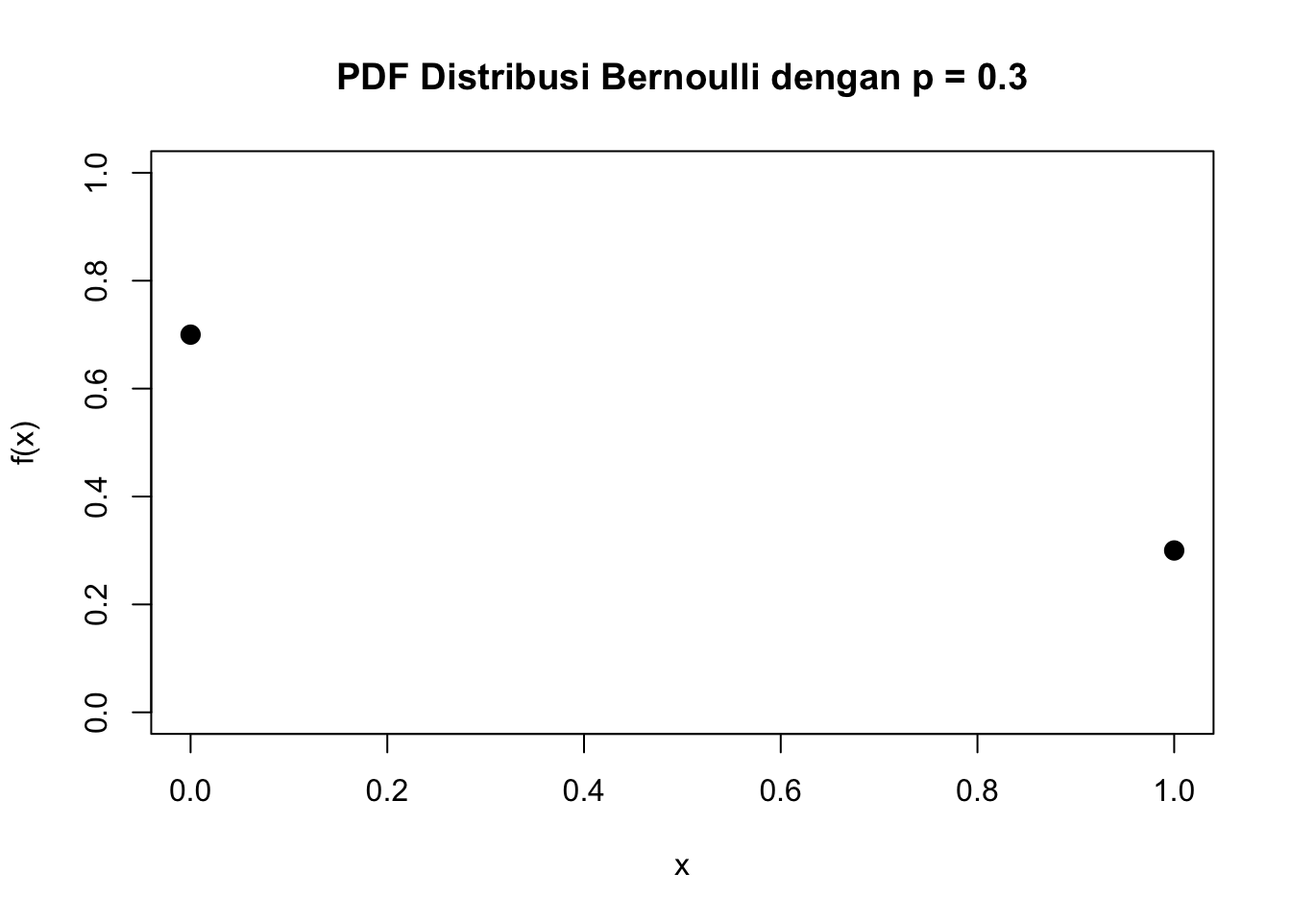
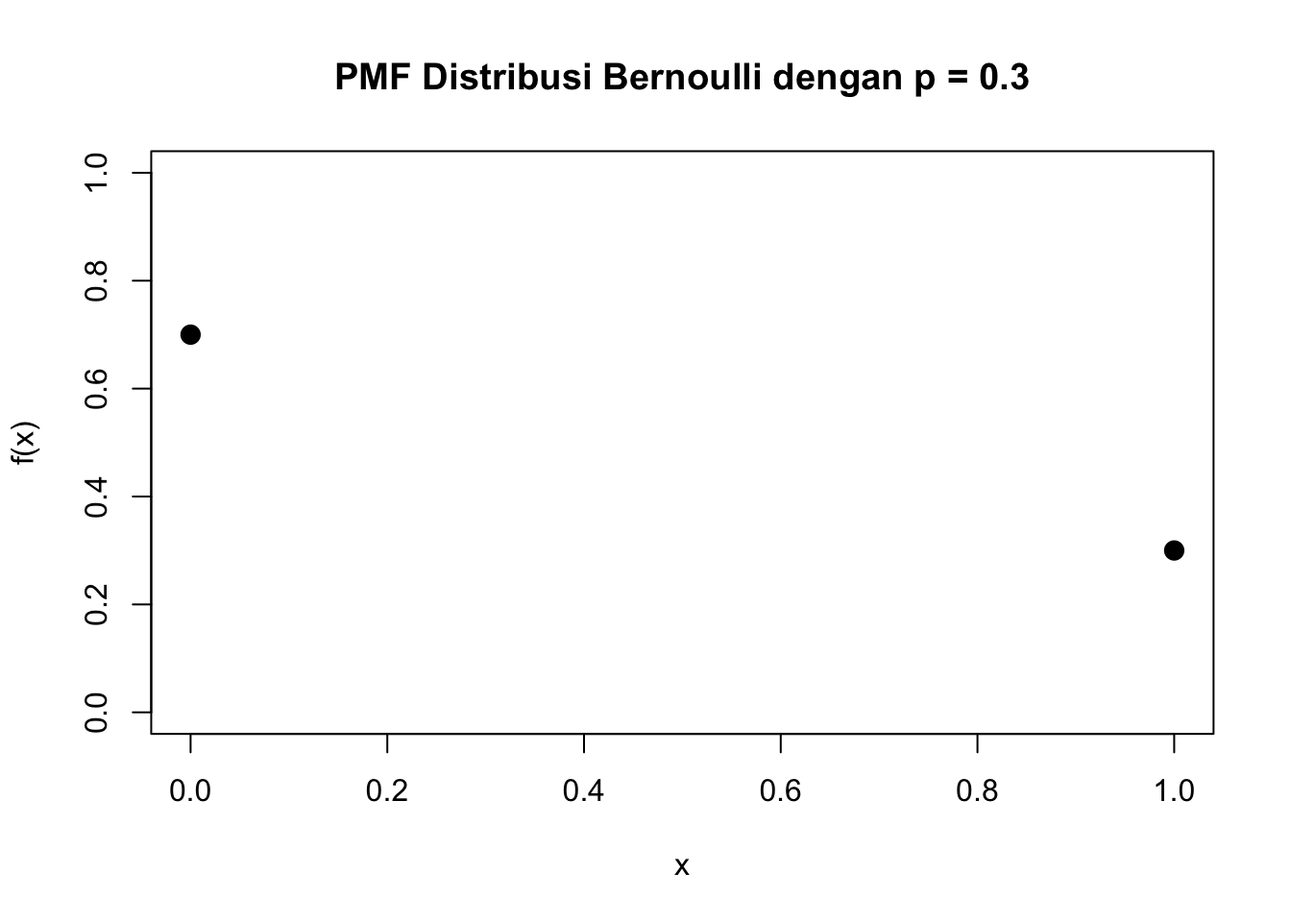
tambah poisson dan render

Changed region(s): [[0.25, 0.0625, 0.8125, 0.0938]]

diff --git a/docs/semuahalaman/modulprak/2024/ganjil/psd/modul5.html b/docs/semuahalaman/modulprak/2024/ganjil/psd/modul5.html
@@ -199,7 +199,13 @@ window.Quarto = {
   <li><a href="#rng-1" id="toc-rng-1" class="nav-link" data-scroll-target="#rng-1">RNG</a></li>
   </ul></li>
   <li><a href="#contoh-distribusi-binomial" id="toc-contoh-distribusi-binomial" class="nav-link" data-scroll-target="#contoh-distribusi-binomial">Contoh distribusi binomial</a></li>
-  <li><a href="#distribusi-poisson" id="toc-distribusi-poisson" class="nav-link" data-scroll-target="#distribusi-poisson">Distribusi Poisson</a></li>
+  <li><a href="#distribusi-poisson" id="toc-distribusi-poisson" class="nav-link" data-scroll-target="#distribusi-poisson">Distribusi Poisson</a>
+  <ul class="collapse">
+  <li><a href="#pmf-2" id="toc-pmf-2" class="nav-link" data-scroll-target="#pmf-2">PMF</a></li>
+  <li><a href="#cdf-2" id="toc-cdf-2" class="nav-link" data-scroll-target="#cdf-2">CDF</a></li>
+  <li><a href="#quantile-function-2" id="toc-quantile-function-2" class="nav-link" data-scroll-target="#quantile-function-2"><em>Quantile function</em></a></li>
+  <li><a href="#rng-2" id="toc-rng-2" class="nav-link" data-scroll-target="#rng-2">RNG</a></li>
+  </ul></li>
   </ul></li>
   <li><a href="#pengayaan-visualisasi-distribusi-diskrit-dengan-ggplot2" id="toc-pengayaan-visualisasi-distribusi-diskrit-dengan-ggplot2" class="nav-link" data-scroll-target="#pengayaan-visualisasi-distribusi-diskrit-dengan-ggplot2">(Pengayaan) Visualisasi Distribusi Diskrit dengan ggplot2</a></li>
   <li><a href="#distribusi-diskrit-dengan-distr" id="toc-distribusi-diskrit-dengan-distr" class="nav-link" data-scroll-target="#distribusi-diskrit-dengan-distr">Distribusi Diskrit dengan <code>distr</code></a>
@@ -329,7 +335,7 @@ Attaching package: 'Rlab'</code></pre>
 <div class="cell">
 <div class="sourceCode cell-code" id="cb11"><pre class="sourceCode r code-with-copy"><code class="sourceCode r"><span id="cb11-1"><a href="#cb11-1" aria-hidden="true" tabindex="-1"></a><span class="fu">plot</span>(support_bern,</span>
 <span id="cb11-2"><a href="#cb11-2" aria-hidden="true" tabindex="-1"></a>     <span class="fu">dbern</span>(support_bern, <span class="at">prob =</span> <span class="fl">0.3</span>),</span>
-<span id="cb11-3"><a href="#cb11-3" aria-hidden="true" tabindex="-1"></a>     <span class="at">main =</span> <span class="st">"PDF Distribusi Bernoulli dengan p = 0.3"</span>,</span>
+<span id="cb11-3"><a href="#cb11-3" aria-hidden="true" tabindex="-1"></a>     <span class="at">main =</span> <span class="st">"PMF Distribusi Bernoulli dengan p = 0.3"</span>,</span>
 <span id="cb11-4"><a href="#cb11-4" aria-hidden="true" tabindex="-1"></a>     <span class="at">xlab =</span> <span class="st">"x"</span>,</span>
 <span id="cb11-5"><a href="#cb11-5" aria-hidden="true" tabindex="-1"></a>     <span class="at">ylab =</span> <span class="st">"f(x)"</span>,</span>
 <span id="cb11-6"><a href="#cb11-6" aria-hidden="true" tabindex="-1"></a>     <span class="at">ylim =</span> <span class="fu">c</span>(<span class="dv">0</span>, <span class="dv">1</span>),</span>
@@ -524,21 +530,16 @@ Attaching package: 'Rlab'</code></pre>
 <span id="cb52-3"><a href="#cb52-3" aria-hidden="true" tabindex="-1"></a>random_binom <span class="ot">&lt;-</span> <span class="fu">rbinom</span>(n, <span class="at">size =</span> <span class="dv">10</span>, <span class="at">prob =</span> <span class="fl">0.3</span>)</span></code><button title="Copy to Clipboard" class="code-copy-button"><i class="bi"></i></button></pre></div>
 </div>
 <div class="cell">
-<div class="sourceCode cell-code" id="cb53"><pre class="sourceCode r code-with-copy"><code class="sourceCode r"><span id="cb53-1"><a href="#cb53-1" aria-hidden="true" tabindex="-1"></a><span class="fu">set.seed</span>(<span class="dv">122</span>)</span>
-<span id="cb53-2"><a href="#cb53-2" aria-hidden="true" tabindex="-1"></a>n <span class="ot">&lt;-</span> <span class="dv">100</span></span>
-<span id="cb53-3"><a href="#cb53-3" aria-hidden="true" tabindex="-1"></a>random_binom <span class="ot">&lt;-</span> <span class="fu">rbinom</span>(n, <span class="at">size =</span> <span class="dv">10</span>, <span class="at">prob =</span> <span class="fl">0.6</span>)</span></code><button title="Copy to Clipboard" class="code-copy-button"><i class="bi"></i></button></pre></div>
-</div>
-<div class="cell">
-<div class="sourceCode cell-code" id="cb54"><pre class="sourceCode r code-with-copy"><code class="sourceCode r"><span id="cb54-1"><a href="#cb54-1" aria-hidden="true" tabindex="-1"></a>random_binom_plot <span class="ot">&lt;-</span> <span class="fu">barplot</span>(<span class="fu">table</span>(random_binom),</span>
-<span id="cb54-2"><a href="#cb54-2" aria-hidden="true" tabindex="-1"></a>                             <span class="at">ylim =</span> <span class="fu">c</span>(<span class="dv">0</span>,<span class="dv">40</span>))</span>
-<span id="cb54-3"><a href="#cb54-3" aria-hidden="true" tabindex="-1"></a><span class="fu">text</span>(<span class="at">x =</span> random_binom_plot,</span>
-<span id="cb54-4"><a href="#cb54-4" aria-hidden="true" tabindex="-1"></a>     <span class="at">y =</span> <span class="fu">table</span>(random_binom),</span>
-<span id="cb54-5"><a href="#cb54-5" aria-hidden="true" tabindex="-1"></a>     <span class="at">labels =</span> <span class="fu">table</span>(random_binom),</span>
-<span id="cb54-6"><a href="#cb54-6" aria-hidden="true" tabindex="-1"></a>     <span class="at">pos =</span> <span class="dv">3</span>)</span></code><button title="Copy to Clipboard" class="code-copy-button"><i class="bi"></i></button></pre></div>
+<div class="sourceCode cell-code" id="cb53"><pre class="sourceCode r code-with-copy"><code class="sourceCode r"><span id="cb53-1"><a href="#cb53-1" aria-hidden="true" tabindex="-1"></a>random_binom_plot <span class="ot">&lt;-</span> <span class="fu">barplot</span>(<span class="fu">table</span>(random_binom),</span>
+<span id="cb53-2"><a href="#cb53-2" aria-hidden="true" tabindex="-1"></a>                             <span class="at">ylim =</span> <span class="fu">c</span>(<span class="dv">0</span>,<span class="dv">40</span>))</span>
+<span id="cb53-3"><a href="#cb53-3" aria-hidden="true" tabindex="-1"></a><span class="fu">text</span>(<span class="at">x =</span> random_binom_plot,</span>
+<span id="cb53-4"><a href="#cb53-4" aria-hidden="true" tabindex="-1"></a>     <span class="at">y =</span> <span class="fu">table</span>(random_binom),</span>
+<span id="cb53-5"><a href="#cb53-5" aria-hidden="true" tabindex="-1"></a>     <span class="at">labels =</span> <span class="fu">table</span>(random_binom),</span>
+<span id="cb53-6"><a href="#cb53-6" aria-hidden="true" tabindex="-1"></a>     <span class="at">pos =</span> <span class="dv">3</span>)</span></code><button title="Copy to Clipboard" class="code-copy-button"><i class="bi"></i></button></pre></div>
 <div class="cell-output-display">
 <div>
 <figure class="figure">
-<p><img src="modul5_files/figure-html/unnamed-chunk-19-1.png" class="img-fluid figure-img" width="672"></p>
+<p><img src="modul5_files/figure-html/unnamed-chunk-18-1.png" class="img-fluid figure-img" width="672"></p>
 </figure>
 </div>
 </div>
@@ -565,7 +566,7 @@ Attaching package: 'Rlab'</code></pre>
 <p><span class="math display">\[\text{Pr}(5 \leq X \leq 10) = \text{Pr}(X \leq 10) - \text{Pr}(X \leq 4)\]</span></p>
 <p>Sehingga kita tinggal menghitung nilai CDF di 10 dan di 4, lalu menghitung selisihnya.</p>
 <div class="cell">
-<div class="sourceCode cell-code" id="cb55"><pre class="sourceCode r code-with-copy"><code class="sourceCode r"><span id="cb55-1"><a href="#cb55-1" aria-hidden="true" tabindex="-1"></a><span class="fu">pbinom</span>(<span class="dv">10</span>, <span class="at">size =</span> <span class="dv">15</span>, <span class="at">prob =</span> <span class="fl">0.2</span>) <span class="sc">-</span> <span class="fu">pbinom</span>(<span class="dv">4</span>, <span class="at">size =</span> <span class="dv">15</span>, <span class="at">prob =</span> <span class="fl">0.2</span>)</span></code><button title="Copy to Clipboard" class="code-copy-button"><i class="bi"></i></button></pre></div>
+<div class="sourceCode cell-code" id="cb54"><pre class="sourceCode r code-with-copy"><code class="sourceCode r"><span id="cb54-1"><a href="#cb54-1" aria-hidden="true" tabindex="-1"></a><span class="fu">pbinom</span>(<span class="dv">10</span>, <span class="at">size =</span> <span class="dv">15</span>, <span class="at">prob =</span> <span class="fl">0.2</span>) <span class="sc">-</span> <span class="fu">pbinom</span>(<span class="dv">4</span>, <span class="at">size =</span> <span class="dv">15</span>, <span class="at">prob =</span> <span class="fl">0.2</span>)</span></code><button title="Copy to Clipboard" class="code-copy-button"><i class="bi"></i></button></pre></div>
 <div class="cell-output cell-output-stdout">
 <pre><code>[1] 0.1642213</code></pre>
 </div>
@@ -578,7 +579,7 @@ Attaching package: 'Rlab'</code></pre>
 <p><span class="math display">\[\text{Pr}(5 &lt; X &lt; 10) = \text{Pr}(X \leq 9) - \text{Pr}(X \leq 5)\]</span></p>
 <p>Sehingga kita tinggal menghitung nilai CDF di 9 dan di 5, lalu menghitung selisihnya.</p>
 <div class="cell">
-<div class="sourceCode cell-code" id="cb57"><pre class="sourceCode r code-with-copy"><code class="sourceCode r"><span id="cb57-1"><a href="#cb57-1" aria-hidden="true" tabindex="-1"></a><span class="fu">pbinom</span>(<span class="dv">9</span>, <span class="at">size =</span> <span class="dv">15</span>, <span class="at">prob =</span> <span class="fl">0.2</span>) <span class="sc">-</span> <span class="fu">pbinom</span>(<span class="dv">5</span>, <span class="at">size =</span> <span class="dv">15</span>, <span class="at">prob =</span> <span class="fl">0.2</span>)</span></code><button title="Copy to Clipboard" class="code-copy-button"><i class="bi"></i></button></pre></div>
+<div class="sourceCode cell-code" id="cb56"><pre class="sourceCode r code-with-copy"><code class="sourceCode r"><span id="cb56-1"><a href="#cb56-1" aria-hidden="true" tabindex="-1"></a><span class="fu">pbinom</span>(<span class="dv">9</span>, <span class="at">size =</span> <span class="dv">15</span>, <span class="at">prob =</span> <span class="fl">0.2</span>) <span class="sc">-</span> <span class="fu">pbinom</span>(<span class="dv">5</span>, <span class="at">size =</span> <span class="dv">15</span>, <span class="at">prob =</span> <span class="fl">0.2</span>)</span></code><button title="Copy to Clipboard" class="code-copy-button"><i class="bi"></i></button></pre></div>
 <div class="cell-output cell-output-stdout">
 <pre><code>[1] 0.0609382</code></pre>
 </div>
@@ -589,7 +590,7 @@ Attaching package: 'Rlab'</code></pre>
 <p>Artinya <span class="math inline">\(\text{Pr}(X=4)\)</span></p>
 <p>Tinggal hitung PMF di 4</p>
 <div class="cell">
-<div class="sourceCode cell-code" id="cb59"><pre class="sourceCode r code-with-copy"><code class="sourceCode r"><span id="cb59-1"><a href="#cb59-1" aria-hidden="true" tabindex="-1"></a><span class="fu">dbinom</span>(<span class="dv">4</span>, <span class="at">size =</span> <span class="dv">15</span>, <span class="at">prob =</span> <span class="fl">0.2</span>)</span></code><button title="Copy to Clipboard" class="code-copy-button"><i class="bi"></i></button></pre></div>
+<div class="sourceCode cell-code" id="cb58"><pre class="sourceCode r code-with-copy"><code class="sourceCode r"><span id="cb58-1"><a href="#cb58-1" aria-hidden="true" tabindex="-1"></a><span class="fu">dbinom</span>(<span class="dv">4</span>, <span class="at">size =</span> <span class="dv">15</span>, <span class="at">prob =</span> <span class="fl">0.2</span>)</span></code><button title="Copy to Clipboard" class="code-copy-button"><i class="bi"></i></button></pre></div>
 <div class="cell-output cell-output-stdout">
 <pre><code>[1] 0.1876042</code></pre>
 </div>
@@ -602,7 +603,7 @@ Attaching package: 'Rlab'</code></pre>
 <p><span class="math display">\[\text{Pr}(X&gt;5) = 1 - \text{Pr}(X \leq 5)\]</span></p>
 <p>Sehingga kita tinggal menghitung</p>
 <div class="cell">
-<div class="sourceCode cell-code" id="cb61"><pre class="sourceCode r code-with-copy"><code class="sourceCode r"><span id="cb61-1"><a href="#cb61-1" aria-hidden="true" tabindex="-1"></a><span class="dv">1</span> <span class="sc">-</span> <span class="fu">pbinom</span>(<span class="dv">5</span>, <span class="at">size =</span> <span class="dv">15</span>, <span class="at">prob =</span> <span class="fl">0.2</span>)</span></code><button title="Copy to Clipboard" class="code-copy-button"><i class="bi"></i></button></pre></div>
+<div class="sourceCode cell-code" id="cb60"><pre class="sourceCode r code-with-copy"><code class="sourceCode r"><span id="cb60-1"><a href="#cb60-1" aria-hidden="true" tabindex="-1"></a><span class="dv">1</span> <span class="sc">-</span> <span class="fu">pbinom</span>(<span class="dv">5</span>, <span class="at">size =</span> <span class="dv">15</span>, <span class="at">prob =</span> <span class="fl">0.2</span>)</span></code><button title="Copy to Clipboard" class="code-copy-button"><i class="bi"></i></button></pre></div>
 <div class="cell-output cell-output-stdout">
 <pre><code>[1] 0.06105143</code></pre>
 </div>
@@ -610,6 +611,147 @@ Attaching package: 'Rlab'</code></pre>
 </section>
 <section id="distribusi-poisson" class="level2">
 <h2 class="anchored" data-anchor-id="distribusi-poisson">Distribusi Poisson</h2>
+<section id="pmf-2" class="level3">
+<h3 class="anchored" data-anchor-id="pmf-2">PMF</h3>
+<div class="cell">
+<div class="sourceCode cell-code" id="cb62"><pre class="sourceCode r code-with-copy"><code class="sourceCode r"><span id="cb62-1"><a href="#cb62-1" aria-hidden="true" tabindex="-1"></a><span class="fu">dpois</span>(<span class="dv">1</span>, <span class="at">lambda =</span> <span class="dv">2</span>)</span></code><button title="Copy to Clipboard" class="code-copy-button"><i class="bi"></i></button></pre></div>
+<div class="cell-output cell-output-stdout">
+<pre><code>[1] 0.2706706</code></pre>
+</div>
+<div class="sourceCode cell-code" id="cb64"><pre class="sourceCode r code-with-copy"><code class="sourceCode r"><span id="cb64-1"><a href="#cb64-1" aria-hidden="true" tabindex="-1"></a><span class="fu">dpois</span>(<span class="dv">2</span>, <span class="at">lambda =</span> <span class="dv">2</span>)</span></code><button title="Copy to Clipboard" class="code-copy-button"><i class="bi"></i></button></pre></div>
+<div class="cell-output cell-output-stdout">
+<pre><code>[1] 0.2706706</code></pre>
+</div>
+<div class="sourceCode cell-code" id="cb66"><pre class="sourceCode r code-with-copy"><code class="sourceCode r"><span id="cb66-1"><a href="#cb66-1" aria-hidden="true" tabindex="-1"></a><span class="fu">dpois</span>(<span class="dv">3</span>, <span class="at">lambda =</span> <span class="dv">2</span>)</span></code><button title="Copy to Clipboard" class="code-copy-button"><i class="bi"></i></button></pre></div>
+<div class="cell-output cell-output-stdout">
+<pre><code>[1] 0.180447</code></pre>
+</div>
+<div class="sourceCode cell-code" id="cb68"><pre class="sourceCode r code-with-copy"><code class="sourceCode r"><span id="cb68-1"><a href="#cb68-1" aria-hidden="true" tabindex="-1"></a><span class="fu">dpois</span>(<span class="dv">4</span>, <span class="at">lambda =</span> <span class="dv">2</span>)</span></code><button title="Copy to Clipboard" class="code-copy-button"><i class="bi"></i></button></pre></div>
+<div class="cell-output cell-output-stdout">
+<pre><code>[1] 0.09022352</code></pre>
+</div>
+<div class="sourceCode cell-code" id="cb70"><pre class="sourceCode r code-with-copy"><code class="sourceCode r"><span id="cb70-1"><a href="#cb70-1" aria-hidden="true" tabindex="-1"></a><span class="fu">dpois</span>(<span class="dv">5</span>, <span class="at">lambda =</span> <span class="dv">2</span>)</span></code><button title="Copy to Clipboard" class="code-copy-button"><i class="bi"></i></button></pre></div>
+<div class="cell-output cell-output-stdout">
+<pre><code>[1] 0.03608941</code></pre>
+</div>
+</div>
+<div class="cell">
+<div class="sourceCode cell-code" id="cb72"><pre class="sourceCode r code-with-copy"><code class="sourceCode r"><span id="cb72-1"><a href="#cb72-1" aria-hidden="true" tabindex="-1"></a>support_pois <span class="ot">&lt;-</span> <span class="fu">seq</span>(<span class="dv">0</span>, <span class="dv">10</span>, <span class="at">by =</span> <span class="dv">1</span>)</span></code><button title="Copy to Clipboard" class="code-copy-button"><i class="bi"></i></button></pre></div>
+</div>
+<div class="cell">
+<div class="sourceCode cell-code" id="cb73"><pre class="sourceCode r code-with-copy"><code class="sourceCode r"><span id="cb73-1"><a href="#cb73-1" aria-hidden="true" tabindex="-1"></a><span class="fu">plot</span>(support_pois,</span>
+<span id="cb73-2"><a href="#cb73-2" aria-hidden="true" tabindex="-1"></a>     <span class="fu">dpois</span>(support_pois, <span class="at">lambda =</span> <span class="dv">2</span>),</span>
+<span id="cb73-3"><a href="#cb73-3" aria-hidden="true" tabindex="-1"></a>     <span class="at">xaxp =</span> <span class="fu">c</span>(<span class="dv">0</span>,<span class="dv">10</span>,<span class="dv">10</span>),</span>
+<span id="cb73-4"><a href="#cb73-4" aria-hidden="true" tabindex="-1"></a>     <span class="at">pch =</span> <span class="dv">20</span>,</span>
+<span id="cb73-5"><a href="#cb73-5" aria-hidden="true" tabindex="-1"></a>     <span class="at">ylim =</span> <span class="fu">c</span>(<span class="dv">0</span>, <span class="dv">1</span>))</span></code><button title="Copy to Clipboard" class="code-copy-button"><i class="bi"></i></button></pre></div>
+<div class="cell-output-display">
+<div>
+<figure class="figure">
+<p><img src="modul5_files/figure-html/unnamed-chunk-25-1.png" class="img-fluid figure-img" width="672"></p>
+</figure>
+</div>
+</div>
+</div>
+</section>
+<section id="cdf-2" class="level3">
+<h3 class="anchored" data-anchor-id="cdf-2">CDF</h3>
+<div class="cell">
+<div class="sourceCode cell-code" id="cb74"><pre class="sourceCode r code-with-copy"><code class="sourceCode r"><span id="cb74-1"><a href="#cb74-1" aria-hidden="true" tabindex="-1"></a><span class="fu">ppois</span>(<span class="dv">1</span>, <span class="at">lambda =</span> <span class="dv">2</span>)</span></code><button title="Copy to Clipboard" class="code-copy-button"><i class="bi"></i></button></pre></div>
+<div class="cell-output cell-output-stdout">
+<pre><code>[1] 0.4060058</code></pre>
+</div>
+<div class="sourceCode cell-code" id="cb76"><pre class="sourceCode r code-with-copy"><code class="sourceCode r"><span id="cb76-1"><a href="#cb76-1" aria-hidden="true" tabindex="-1"></a><span class="fu">ppois</span>(<span class="dv">2</span>, <span class="at">lambda =</span> <span class="dv">2</span>)</span></code><button title="Copy to Clipboard" class="code-copy-button"><i class="bi"></i></button></pre></div>
+<div class="cell-output cell-output-stdout">
+<pre><code>[1] 0.6766764</code></pre>
+</div>
+<div class="sourceCode cell-code" id="cb78"><pre class="sourceCode r code-with-copy"><code class="sourceCode r"><span id="cb78-1"><a href="#cb78-1" aria-hidden="true" tabindex="-1"></a><span class="fu">ppois</span>(<span class="dv">3</span>, <span class="at">lambda =</span> <span class="dv">2</span>)</span></code><button title="Copy to Clipboard" class="code-copy-button"><i class="bi"></i></button></pre></div>
+<div class="cell-output cell-output-stdout">
+<pre><code>[1] 0.8571235</code></pre>
+</div>
+<div class="sourceCode cell-code" id="cb80"><pre class="sourceCode r code-with-copy"><code class="sourceCode r"><span id="cb80-1"><a href="#cb80-1" aria-hidden="true" tabindex="-1"></a><span class="fu">ppois</span>(<span class="dv">4</span>, <span class="at">lambda =</span> <span class="dv">2</span>)</span></code><button title="Copy to Clipboard" class="code-copy-button"><i class="bi"></i></button></pre></div>
+<div class="cell-output cell-output-stdout">
+<pre><code>[1] 0.947347</code></pre>
+</div>
+<div class="sourceCode cell-code" id="cb82"><pre class="sourceCode r code-with-copy"><code class="sourceCode r"><span id="cb82-1"><a href="#cb82-1" aria-hidden="true" tabindex="-1"></a><span class="fu">ppois</span>(<span class="dv">5</span>, <span class="at">lambda =</span> <span class="dv">2</span>)</span></code><button title="Copy to Clipboard" class="code-copy-button"><i class="bi"></i></button></pre></div>
+<div class="cell-output cell-output-stdout">
+<pre><code>[1] 0.9834364</code></pre>
+</div>
+</div>
+<div class="cell">
+<div class="sourceCode cell-code" id="cb84"><pre class="sourceCode r code-with-copy"><code class="sourceCode r"><span id="cb84-1"><a href="#cb84-1" aria-hidden="true" tabindex="-1"></a><span class="fu">plot</span>(support_pois,</span>
+<span id="cb84-2"><a href="#cb84-2" aria-hidden="true" tabindex="-1"></a>     <span class="fu">ppois</span>(support_pois, <span class="at">lambda =</span> <span class="dv">2</span>),</span>
+<span id="cb84-3"><a href="#cb84-3" aria-hidden="true" tabindex="-1"></a>     <span class="at">xaxp =</span> <span class="fu">c</span>(<span class="dv">0</span>,<span class="dv">10</span>,<span class="dv">10</span>),</span>
+<span id="cb84-4"><a href="#cb84-4" aria-hidden="true" tabindex="-1"></a>     <span class="at">pch =</span> <span class="dv">20</span>,</span>
+<span id="cb84-5"><a href="#cb84-5" aria-hidden="true" tabindex="-1"></a>     <span class="at">ylim =</span> <span class="fu">c</span>(<span class="dv">0</span>, <span class="dv">1</span>))</span></code><button title="Copy to Clipboard" class="code-copy-button"><i class="bi"></i></button></pre></div>
+<div class="cell-output-display">
+<div>
+<figure class="figure">
+<p><img src="modul5_files/figure-html/unnamed-chunk-27-1.png" class="img-fluid figure-img" width="672"></p>
+</figure>
+</div>
+</div>
+</div>
+</section>
+<section id="quantile-function-2" class="level3">
+<h3 class="anchored" data-anchor-id="quantile-function-2"><em>Quantile function</em></h3>
+<div class="cell">
+<div class="sourceCode cell-code" id="cb85"><pre class="sourceCode r code-with-copy"><code class="sourceCode r"><span id="cb85-1"><a href="#cb85-1" aria-hidden="true" tabindex="-1"></a><span class="fu">qpois</span>(<span class="dv">1</span>, <span class="at">lambda =</span> <span class="dv">2</span>)</span></code><button title="Copy to Clipboard" class="code-copy-button"><i class="bi"></i></button></pre></div>
+<div class="cell-output cell-output-stdout">
+<pre><code>[1] Inf</code></pre>
+</div>
+<div class="sourceCode cell-code" id="cb87"><pre class="sourceCode r code-with-copy"><code class="sourceCode r"><span id="cb87-1"><a href="#cb87-1" aria-hidden="true" tabindex="-1"></a><span class="fu">qpois</span>(<span class="dv">2</span>, <span class="at">lambda =</span> <span class="dv">2</span>)</span></code><button title="Copy to Clipboard" class="code-copy-button"><i class="bi"></i></button></pre></div>
+<div class="cell-output cell-output-stderr">
+<pre><code>Warning in qpois(2, lambda = 2): NaNs produced</code></pre>
+</div>
+<div class="cell-output cell-output-stdout">
+<pre><code>[1] NaN</code></pre>
+</div>
+<div class="sourceCode cell-code" id="cb90"><pre class="sourceCode r code-with-copy"><code class="sourceCode r"><span id="cb90-1"><a href="#cb90-1" aria-hidden="true" tabindex="-1"></a><span class="fu">qpois</span>(<span class="dv">3</span>, <span class="at">lambda =</span> <span class="dv">2</span>)</span></code><button title="Copy to Clipboard" class="code-copy-button"><i class="bi"></i></button></pre></div>
+<div class="cell-output cell-output-stderr">
+<pre><code>Warning in qpois(3, lambda = 2): NaNs produced</code></pre>
+</div>
+<div class="cell-output cell-output-stdout">
+<pre><code>[1] NaN</code></pre>
+</div>
+<div class="sourceCode cell-code" id="cb93"><pre class="sourceCode r code-with-copy"><code class="sourceCode r"><span id="cb93-1"><a href="#cb93-1" aria-hidden="true" tabindex="-1"></a><span class="fu">qpois</span>(<span class="dv">4</span>, <span class="at">lambda =</span> <span class="dv">2</span>)</span></code><button title="Copy to Clipboard" class="code-copy-button"><i class="bi"></i></button></pre></div>
+<div class="cell-output cell-output-stderr">
+<pre><code>Warning in qpois(4, lambda = 2): NaNs produced</code></pre>
+</div>
+<div class="cell-output cell-output-stdout">
+<pre><code>[1] NaN</code></pre>
+</div>
+<div class="sourceCode cell-code" id="cb96"><pre class="sourceCode r code-with-copy"><code class="sourceCode r"><span id="cb96-1"><a href="#cb96-1" aria-hidden="true" tabindex="-1"></a><span class="fu">qpois</span>(<span class="dv">5</span>, <span class="at">lambda =</span> <span class="dv">2</span>)</span></code><button title="Copy to Clipboard" class="code-copy-button"><i class="bi"></i></button></pre></div>
+<div class="cell-output cell-output-stderr">
+<pre><code>Warning in qpois(5, lambda = 2): NaNs produced</code></pre>
+</div>
+<div class="cell-output cell-output-stdout">
+<pre><code>[1] NaN</code></pre>
+</div>
+</div>
+</section>
+<section id="rng-2" class="level3">
+<h3 class="anchored" data-anchor-id="rng-2">RNG</h3>
+<div class="cell">
+<div class="sourceCode cell-code" id="cb99"><pre class="sourceCode r code-with-copy"><code class="sourceCode r"><span id="cb99-1"><a href="#cb99-1" aria-hidden="true" tabindex="-1"></a><span class="fu">set.seed</span>(<span class="dv">122</span>)</span>
+<span id="cb99-2"><a href="#cb99-2" aria-hidden="true" tabindex="-1"></a>n <span class="ot">&lt;-</span> <span class="dv">100</span></span>
+<span id="cb99-3"><a href="#cb99-3" aria-hidden="true" tabindex="-1"></a>random_pois <span class="ot">&lt;-</span> <span class="fu">rpois</span>(n, <span class="at">lambda =</span> <span class="dv">2</span>)</span></code><button title="Copy to Clipboard" class="code-copy-button"><i class="bi"></i></button></pre></div>
+</div>
+<div class="cell">
+<div class="sourceCode cell-code" id="cb100"><pre class="sourceCode r code-with-copy"><code class="sourceCode r"><span id="cb100-1"><a href="#cb100-1" aria-hidden="true" tabindex="-1"></a>random_pois_plot <span class="ot">&lt;-</span> <span class="fu">barplot</span>(<span class="fu">table</span>(random_pois),</span>
+<span id="cb100-2"><a href="#cb100-2" aria-hidden="true" tabindex="-1"></a>                            <span class="at">ylim =</span> <span class="fu">c</span>(<span class="dv">0</span>,<span class="dv">40</span>))</span>
+<span id="cb100-3"><a href="#cb100-3" aria-hidden="true" tabindex="-1"></a><span class="fu">text</span>(<span class="at">x =</span> random_pois_plot,</span>
+<span id="cb100-4"><a href="#cb100-4" aria-hidden="true" tabindex="-1"></a>     <span class="at">y =</span> <span class="fu">table</span>(random_pois),</span>
+<span id="cb100-5"><a href="#cb100-5" aria-hidden="true" tabindex="-1"></a>     <span class="at">labels =</span> <span class="fu">table</span>(random_pois),</span>
+<span id="cb100-6"><a href="#cb100-6" aria-hidden="true" tabindex="-1"></a>     <span class="at">pos =</span> <span class="dv">3</span>)</span></code><button title="Copy to Clipboard" class="code-copy-button"><i class="bi"></i></button></pre></div>
+<div class="cell-output-display">
+<div>
+<figure class="figure">
+<p><img src="modul5_files/figure-html/unnamed-chunk-30-1.png" class="img-fluid figure-img" width="672"></p>
+</figure>
+</div>
+</div>
+</div>
+</section>
 </section>
 </section>
 <section id="pengayaan-visualisasi-distribusi-diskrit-dengan-ggplot2" class="level1">
@@ -617,9 +759,11 @@ Attaching package: 'Rlab'</code></pre>
 </section>
 <section id="distribusi-diskrit-dengan-distr" class="level1">
 <h1>Distribusi Diskrit dengan <code>distr</code></h1>
+<p>Ada suatu <em>package</em> bernama <code>distr</code> yang menawarkan pendekatan agak berbeda daripada <em>base R</em> dalam hal distribusi. Daripada fungsi-fungsi terpisah untuk tiap kemungkinan <strong>awalan</strong> <code>d</code>…, <code>p</code>…, <code>q</code>…, dan <code>r</code>… sebagaimana di <em>base R</em>, kita malah bisa membuat suatu “benda” atau “objek” distribusi, yang kemudian bisa diterapkan keempat fungsi <strong>satu huruf</strong> berikut: <code>d</code>, <code>p</code>, <code>q</code>, dan <code>r</code>.</p>
+<p>Bahkan, dengan pendekatan ini, kita bisa dengan cukup mudah membuat distribusi kita sendiri.</p>
 <pre><code>install.packages("distr")</code></pre>
 <div class="cell">
-<div class="sourceCode cell-code" id="cb64"><pre class="sourceCode r code-with-copy"><code class="sourceCode r"><span id="cb64-1"><a href="#cb64-1" aria-hidden="true" tabindex="-1"></a><span class="fu">library</span>(<span class="st">"distr"</span>)</span></code><button title="Copy to Clipboard" class="code-copy-button"><i class="bi"></i></button></pre></div>
+<div class="sourceCode cell-code" id="cb102"><pre class="sourceCode r code-with-copy"><code class="sourceCode r"><span id="cb102-1"><a href="#cb102-1" aria-hidden="true" tabindex="-1"></a><span class="fu">library</span>(<span class="st">"distr"</span>)</span></code><button title="Copy to Clipboard" class="code-copy-button"><i class="bi"></i></button></pre></div>
 <div class="cell-output cell-output-stderr">
 <pre><code>Loading required package: startupmsg</code></pre>
 </div>
@@ -658,16 +802,16 @@ Attaching package: 'distr'</code></pre>
 <section id="membuat-distribusi-diskrit-sendiri" class="level2">
 <h2 class="anchored" data-anchor-id="membuat-distribusi-diskrit-sendiri">Membuat distribusi diskrit sendiri</h2>
 <div class="cell">
-<div class="sourceCode cell-code" id="cb74"><pre class="sourceCode r code-with-copy"><code class="sourceCode r"><span id="cb74-1"><a href="#cb74-1" aria-hidden="true" tabindex="-1"></a>supp1 <span class="ot">&lt;-</span> <span class="fu">c</span>(<span class="dv">1</span>, <span class="dv">2</span>, <span class="dv">3</span>)</span>
-<span id="cb74-2"><a href="#cb74-2" aria-hidden="true" tabindex="-1"></a>prob1 <span class="ot">&lt;-</span> <span class="fu">c</span>(<span class="fl">0.3</span>, <span class="fl">0.4</span>, <span class="fl">0.3</span>)</span>
-<span id="cb74-3"><a href="#cb74-3" aria-hidden="true" tabindex="-1"></a>dist1 <span class="ot">&lt;-</span> <span class="fu">DiscreteDistribution</span>(<span class="at">supp =</span> supp1, <span class="at">prob =</span> prob1)</span></code><button title="Copy to Clipboard" class="code-copy-button"><i class="bi"></i></button></pre></div>
+<div class="sourceCode cell-code" id="cb112"><pre class="sourceCode r code-with-copy"><code class="sourceCode r"><span id="cb112-1"><a href="#cb112-1" aria-hidden="true" tabindex="-1"></a>supp1 <span class="ot">&lt;-</span> <span class="fu">c</span>(<span class="dv">1</span>, <span class="dv">2</span>, <span class="dv">3</span>)</span>
+<span id="cb112-2"><a href="#cb112-2" aria-hidden="true" tabindex="-1"></a>prob1 <span class="ot">&lt;-</span> <span class="fu">c</span>(<span class="fl">0.3</span>, <span class="fl">0.4</span>, <span class="fl">0.3</span>)</span>
+<span id="cb112-3"><a href="#cb112-3" aria-hidden="true" tabindex="-1"></a>dist1 <span class="ot">&lt;-</span> <span class="fu">DiscreteDistribution</span>(<span class="at">supp =</span> supp1, <span class="at">prob =</span> prob1)</span></code><button title="Copy to Clipboard" class="code-copy-button"><i class="bi"></i></button></pre></div>
 </div>
 <div class="cell">
-<div class="sourceCode cell-code" id="cb75"><pre class="sourceCode r code-with-copy"><code class="sourceCode r"><span id="cb75-1"><a href="#cb75-1" aria-hidden="true" tabindex="-1"></a><span class="fu">plot</span>(dist1)</span></code><button title="Copy to Clipboard" class="code-copy-button"><i class="bi"></i></button></pre></div>
+<div class="sourceCode cell-code" id="cb113"><pre class="sourceCode r code-with-copy"><code class="sourceCode r"><span id="cb113-1"><a href="#cb113-1" aria-hidden="true" tabindex="-1"></a><span class="fu">plot</span>(dist1)</span></code><button title="Copy to Clipboard" class="code-copy-button"><i class="bi"></i></button></pre></div>
 <div class="cell-output-display">
 <div>
 <figure class="figure">
-<p><img src="modul5_files/figure-html/unnamed-chunk-26-1.png" class="img-fluid figure-img" width="672"></p>
+<p><img src="modul5_files/figure-html/unnamed-chunk-33-1.png" class="img-fluid figure-img" width="672"></p>
 </figure>
 </div>
 </div>
@@ -678,16 +822,16 @@ Attaching package: 'distr'</code></pre>
 <pre><code>E(dist1)</code></pre>
 <pre><code>var(dist1)</code></pre>
 <div class="cell">
-<div class="sourceCode cell-code" id="cb78"><pre class="sourceCode r code-with-copy"><code class="sourceCode r"><span id="cb78-1"><a href="#cb78-1" aria-hidden="true" tabindex="-1"></a>supp2 <span class="ot">&lt;-</span> <span class="fu">c</span>(<span class="dv">0</span>, <span class="dv">1</span>, <span class="dv">2</span>, <span class="dv">3</span>, <span class="dv">4</span>)</span>
-<span id="cb78-2"><a href="#cb78-2" aria-hidden="true" tabindex="-1"></a>prob2 <span class="ot">&lt;-</span> <span class="fu">c</span>(<span class="fl">0.2</span>, <span class="fl">0.1</span>, <span class="fl">0.3</span>, <span class="fl">0.3</span>, <span class="fl">0.1</span>)</span>
-<span id="cb78-3"><a href="#cb78-3" aria-hidden="true" tabindex="-1"></a>dist2 <span class="ot">&lt;-</span> <span class="fu">DiscreteDistribution</span>(<span class="at">supp =</span> supp2, <span class="at">prob =</span> prob2)</span></code><button title="Copy to Clipboard" class="code-copy-button"><i class="bi"></i></button></pre></div>
+<div class="sourceCode cell-code" id="cb116"><pre class="sourceCode r code-with-copy"><code class="sourceCode r"><span id="cb116-1"><a href="#cb116-1" aria-hidden="true" tabindex="-1"></a>supp2 <span class="ot">&lt;-</span> <span class="fu">c</span>(<span class="dv">0</span>, <span class="dv">1</span>, <span class="dv">2</span>, <span class="dv">3</span>, <span class="dv">4</span>)</span>
+<span id="cb116-2"><a href="#cb116-2" aria-hidden="true" tabindex="-1"></a>prob2 <span class="ot">&lt;-</span> <span class="fu">c</span>(<span class="fl">0.2</span>, <span class="fl">0.1</span>, <span class="fl">0.3</span>, <span class="fl">0.3</span>, <span class="fl">0.1</span>)</span>
+<span id="cb116-3"><a href="#cb116-3" aria-hidden="true" tabindex="-1"></a>dist2 <span class="ot">&lt;-</span> <span class="fu">DiscreteDistribution</span>(<span class="at">supp =</span> supp2, <span class="at">prob =</span> prob2)</span></code><button title="Copy to Clipboard" class="code-copy-button"><i class="bi"></i></button></pre></div>
 </div>
 <div class="cell">
-<div class="sourceCode cell-code" id="cb79"><pre class="sourceCode r code-with-copy"><code class="sourceCode r"><span id="cb79-1"><a href="#cb79-1" aria-hidden="true" tabindex="-1"></a><span class="fu">plot</span>(dist2)</span></code><button title="Copy to Clipboard" class="code-copy-button"><i class="bi"></i></button></pre></div>
+<div class="sourceCode cell-code" id="cb117"><pre class="sourceCode r code-with-copy"><code class="sourceCode r"><span id="cb117-1"><a href="#cb117-1" aria-hidden="true" tabindex="-1"></a><span class="fu">plot</span>(dist2)</span></code><button title="Copy to Clipboard" class="code-copy-button"><i class="bi"></i></button></pre></div>
 <div class="cell-output-display">
 <div>
 <figure class="figure">
-<p><img src="modul5_files/figure-html/unnamed-chunk-28-1.png" class="img-fluid figure-img" width="672"></p>
+<p><img src="modul5_files/figure-html/unnamed-chunk-35-1.png" class="img-fluid figure-img" width="672"></p>
 </figure>
 </div>
 </div>

diff --git a/docs/semuahalaman/modulprak/2024/ganjil/psd/psd2024.html b/docs/semuahalaman/modulprak/2024/ganjil/psd/psd2024.html
@@ -275,7 +275,7 @@ Oct 7, 2024
 </div>
 </a>
 </div>
-<div class="g-col-1" data-index="4" data-listing-date-sort="1729443600000" data-listing-file-modified-sort="1729502536141" data-listing-date-modified-sort="NaN" data-listing-reading-time-sort="6" data-listing-word-count-sort="1095">
+<div class="g-col-1" data-index="4" data-listing-date-sort="1729443600000" data-listing-file-modified-sort="1729503742523" data-listing-date-modified-sort="NaN" data-listing-reading-time-sort="7" data-listing-word-count-sort="1329">
 <a href="../../../../../semuahalaman/modulprak/2024/ganjil/psd/modul5.html" class="quarto-grid-link">
 <div class="quarto-grid-item card h-100 card-left">
 <p class="card-img-top"><img src="modul5_files/figure-html/unnamed-chunk-3-1.png" style="height: 150px;"  class="thumbnail-image card-img"/></p>
